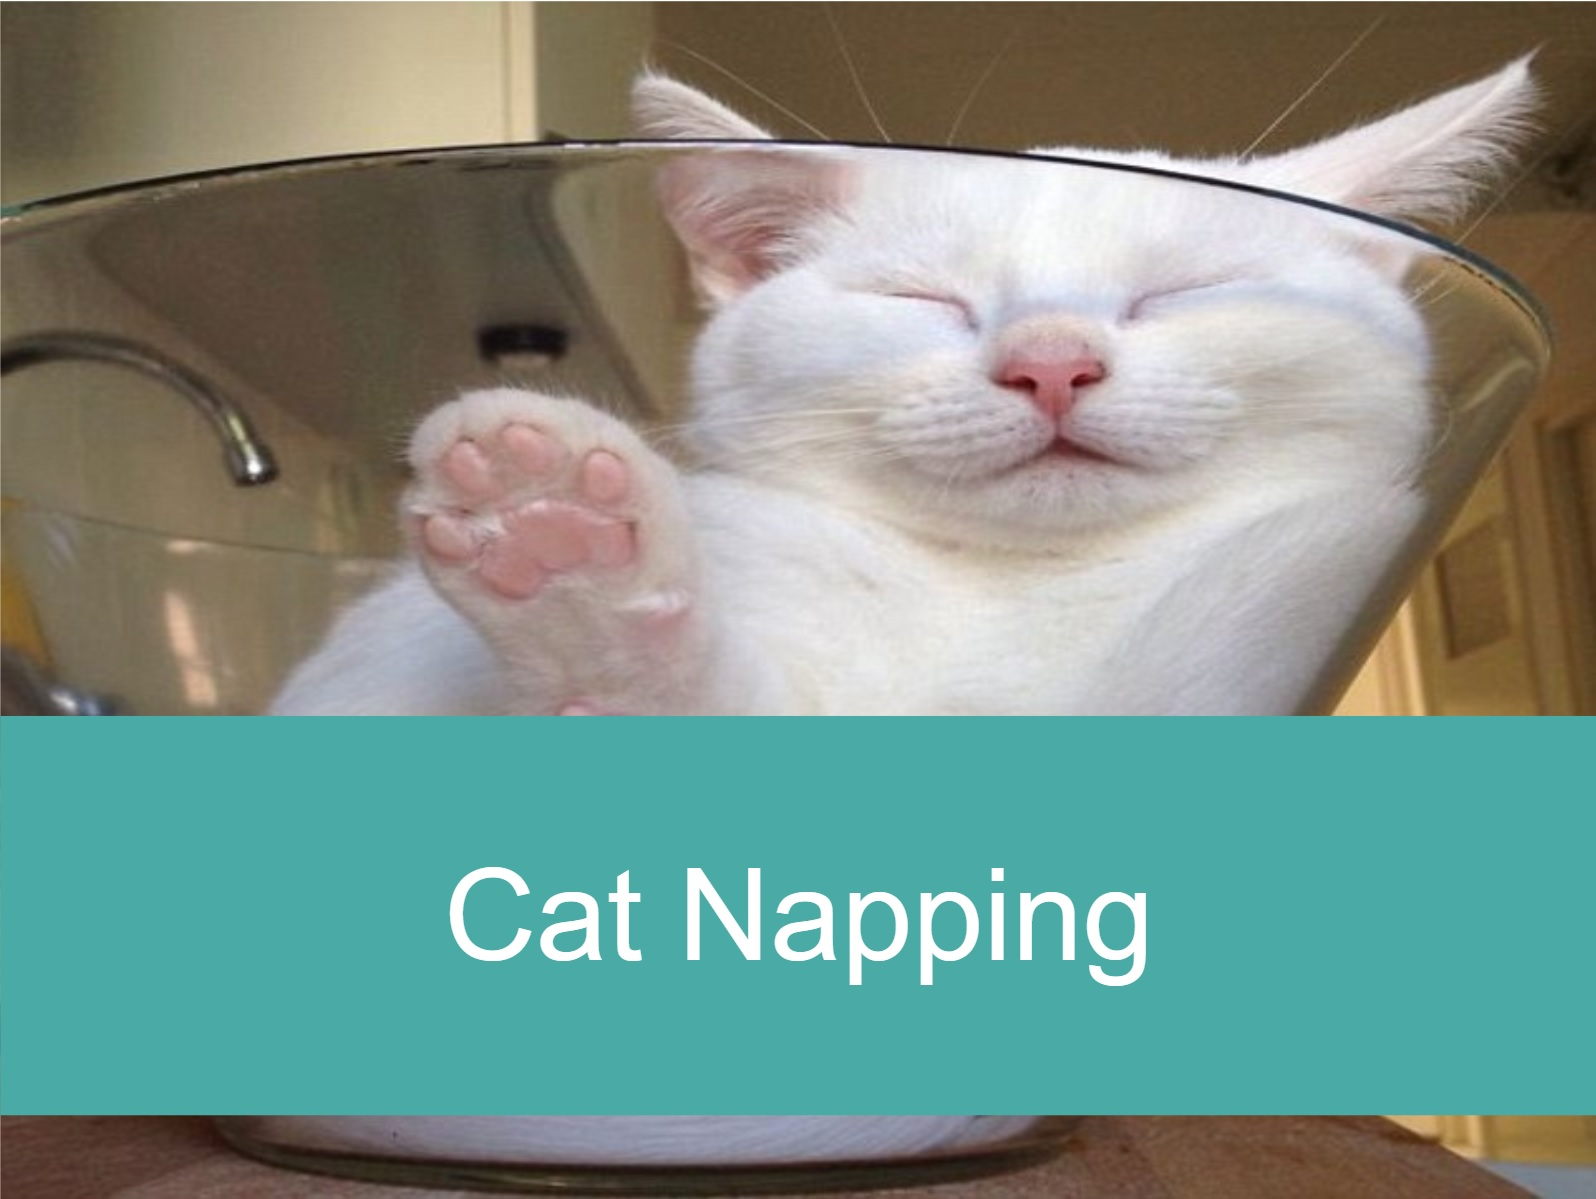
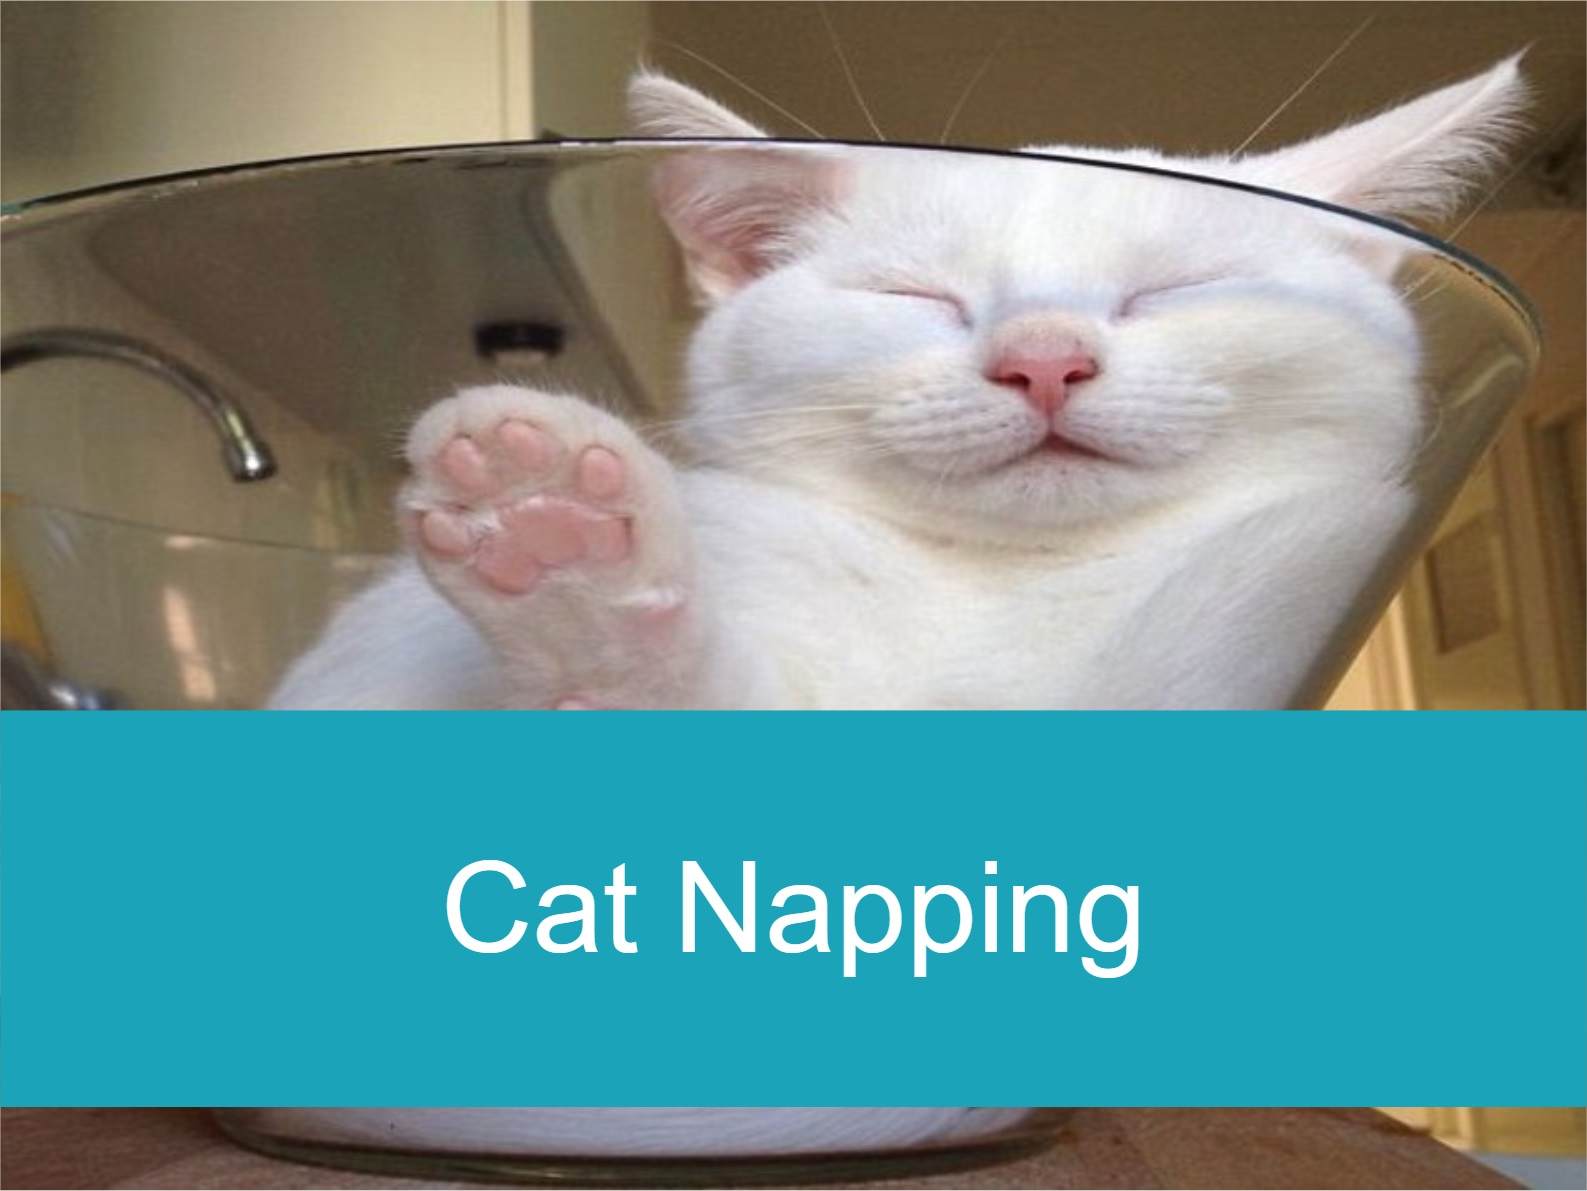
Updating background & text color for all pages

diff --git a/contact.html b/contact.html
@@ -22,7 +22,7 @@
             color: #777777;
             width: 700px;
             position: relative;
-            margin-left: 5px;
+            margin-left: 10px;
             margin-top: 5px;
             margin-bottom: 10px;
         }
@@ -30,7 +30,7 @@
             color: #777777;
             width: 700px;
             position: relative;
-            margin-left: 5px;
+            margin-left: 10px;
             margin-top: 5px;
             margin-bottom: 10px;
         }
@@ -39,13 +39,16 @@
             width: 700px;
             padding-bottom: 200px;
             position: relative;
-            margin-left: 5px;
+            margin-left: 10px;
             margin-top: 5px;
             margin-bottom: 15px;
         }
 
         footer {
-            border-top: 8px solid #4aaaa5;
+            border-top: 8px solid #1ba3b9;
+        }
+        section {
+            color: #1ba3b9;
         }
     </style>
 
@@ -94,29 +97,39 @@
         </div>
     </header>
 
-
-    <div class="container border col-12 col-sm-12 col-md-9 col-lg-6 mt-5 ml-5 pb-3 bg-light text-secondary">
+<section>
+    <div class="container border col-12 col-sm-12 col-md-9 col-lg-6 mt-5 ml-5 pb-3 bg-light">
         <a class="border-secondary">
 
             <!-- "Contacts" -->
-            <div class="container">
-                <div class="col-3 pt-1 pr-5 mt-2 ml-0 mr-5 bg-light text-info text-center font-weight-bold">
-                    <h3>Contacts</h3>
-                </div>
+            <div class="container border-bottom mb-2">
+                <a class="border-secondary">
+                    <div class="col-1 pt-1 pr-5 pl- 0 mt-2 ml-0 mr-5 bg-light text-center font-weight-bold">
+                        <h3>Contacts</h3>
+                    </div>
+                </a>
             </div>
-            <form>Name<br>
-                <input class="name" placeholder="Name here"><br>
-    
-            <form>Email<br>
-                <input class="email" placeholder="Email here"><br>
-    
-            <form>Message<br>
-                <input class="message" placeholder="Write message here"><br>
-            <a class="ml-1">
-                <button type="button" class="btn btn-info pr-4 pl-4 pb-2 pt-2">Submit</button>
+            <a class="text-secondary ml-3">
+                <form>Name<br>
+                    <input class="name" placeholder="Name here"><br>
             </a>
+            <a class="text-secondary ml-3">
+                <form>Email<br>
+                    <input class="email" placeholder="Email here"><br>
+            </a>
+            <a class="text-secondary ml-3">
+                <form>Message<br>
+                    <input class="message" placeholder="Write message here"><br>
+            </a>
+            <div class="button">
+                <a class="ml-2">
+                    <button type="button" class="btn btn-info pr-4 pl-4 pb-2 pt-2">Submit</button>
+                </a>
+            </div>
+            
         </a>
     </div>
+</section>
 
 
 

diff --git a/portfolio.html b/portfolio.html
@@ -19,7 +19,7 @@
         }
 
         footer {
-            border-top: 8px solid #4aaaa5;
+            border-top: 8px solid #1ba3b9;
         }
     </style>
 
@@ -75,12 +75,14 @@
         <a class="border-secondary">
 
             <!-- "Portfolio" -->
-            <div class="container">
-                <div class="row">
-                    <div class="col-3 pl-4 pt-1 ml-3 mt-3 bg-light text-info text-center font-weight-bold">
-                        <h3>Portfolio</h3>
+            <div class="container border-bottom mb-2">
+                <a class="border-secondary">
+                    <div class="row">
+                        <div class="col-3 pt-1 pl-1 mt-2 ml-0 bg-light text-info text-center font-weight-bold">
+                            <h3>Portfolio</h3>
+                        </div>
                     </div>
-                </div>
+                </a>
             </div>
             
             <div class="container">

diff --git a/index.html b/index.html
@@ -19,7 +19,7 @@
             }
 
         footer {
-            border-top: 8px solid #4aaaa5;
+            border-top: 8px solid #1ba3b9;
         }
     </style>
 
@@ -74,10 +74,12 @@
         <a class="border-secondary">
 
             <!-- "About Me" -->
-            <div class="container">
-                <div class="col-3 pt-1 mt-2 ml-0 bg-light text-info text-center font-weight-bold">
-                    <h3>About me</h3>
-                </div>
+            <div class="container border-bottom mb-2">
+                <a class="border-secondary">
+                    <div class="col-3 pt-1 pl-1 mt-2 ml-0 bg-light text-info text-center font-weight-bold">
+                        <h3>About me</h3>
+                    </div>
+                </a>
             </div>
 
             <!-- image -->
